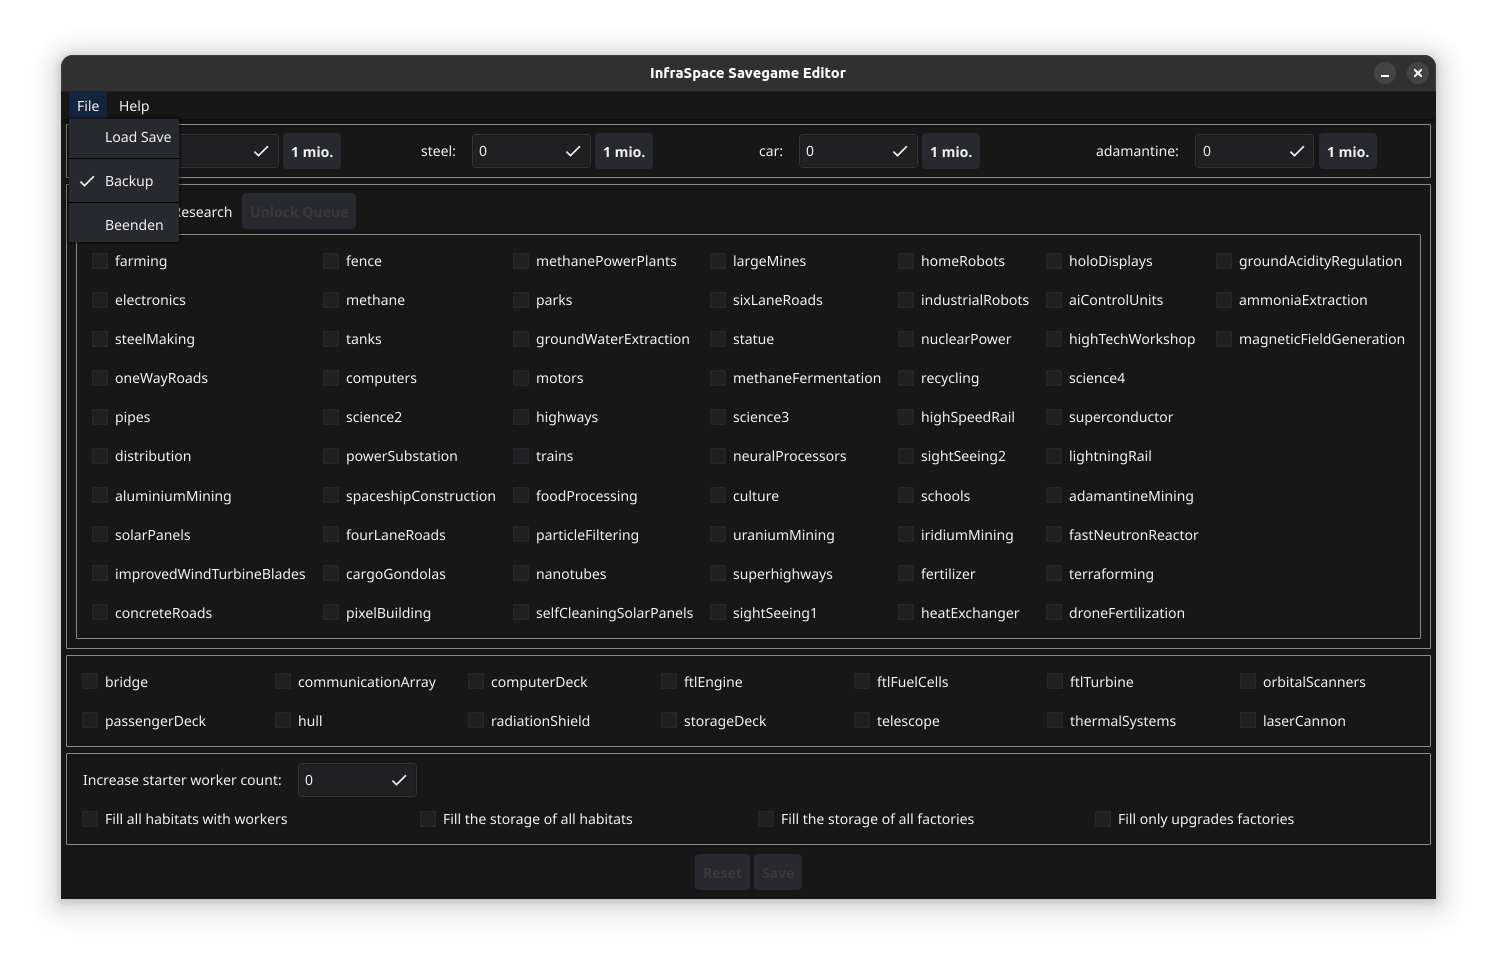
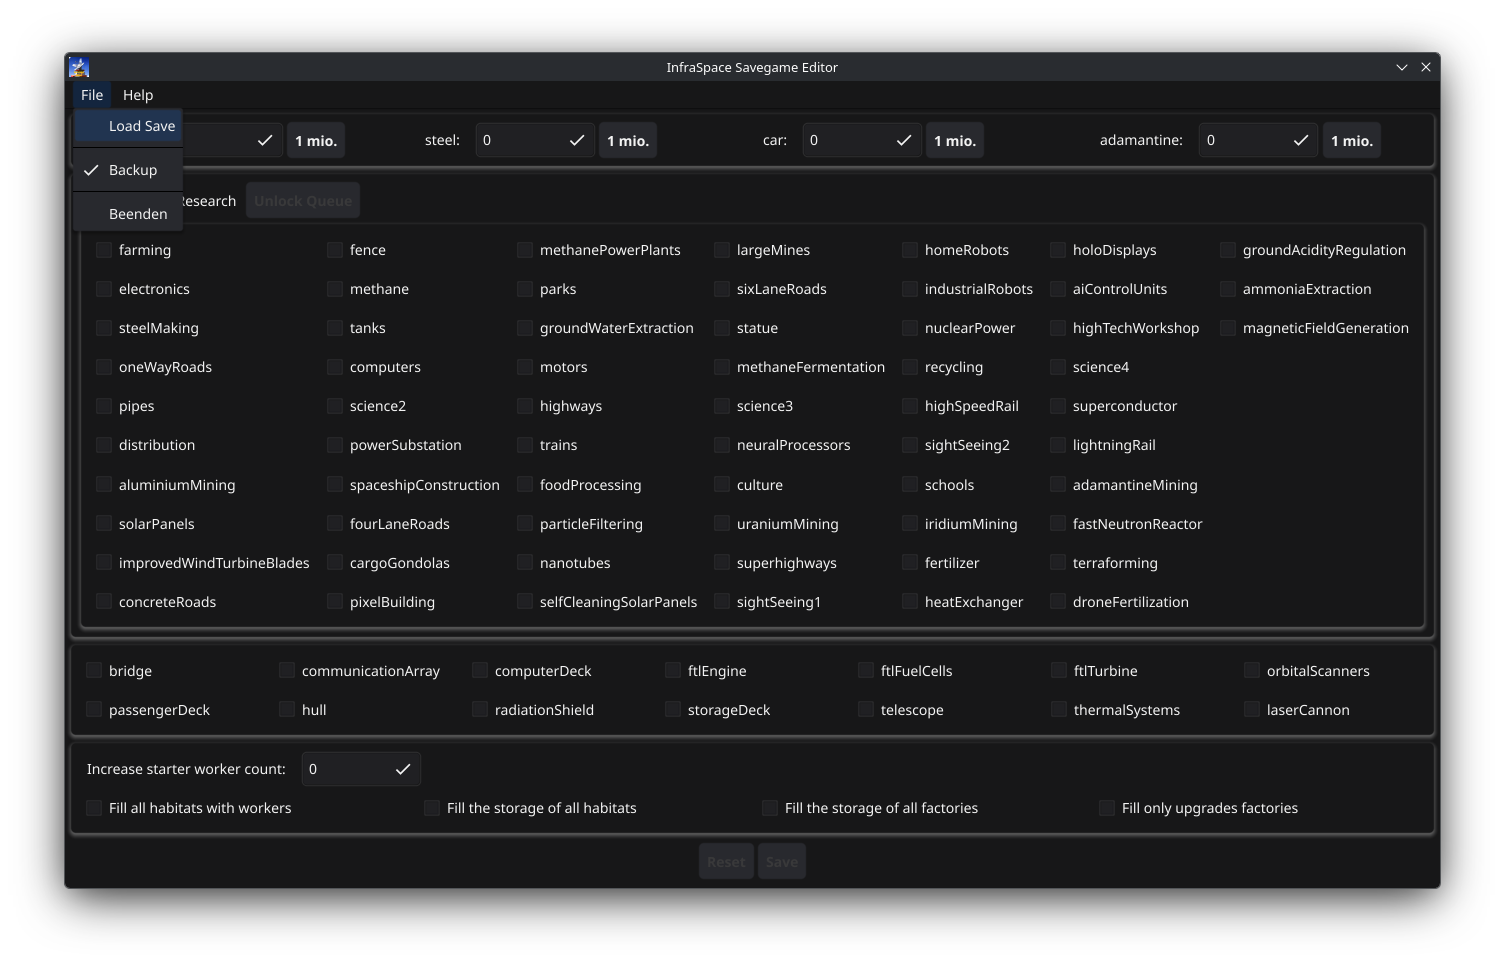
Update screenshots to latest version
Since fyne 2.8 changed the design, update screenshots to match.

Changed region(s): [[0.0307, 0.0311, 0.9833, 0.9637], [0.338, 0.2487, 0.4609, 0.4663], [0.2151, 0.2487, 0.2766, 0.342]]

diff --git a/README.md b/README.md
@@ -65,5 +65,3 @@ sudo dnf install infraspace-savegame-editor
 
 ![](images/dark/FileMenu.png#gh-dark-mode-only)
 ![](images/light/FileMenu.png#gh-light-mode-only)
-![](images/dark/FileDialog.png#gh-dark-mode-only)
-![](images/light/FileDialog.png#gh-light-mode-only)
